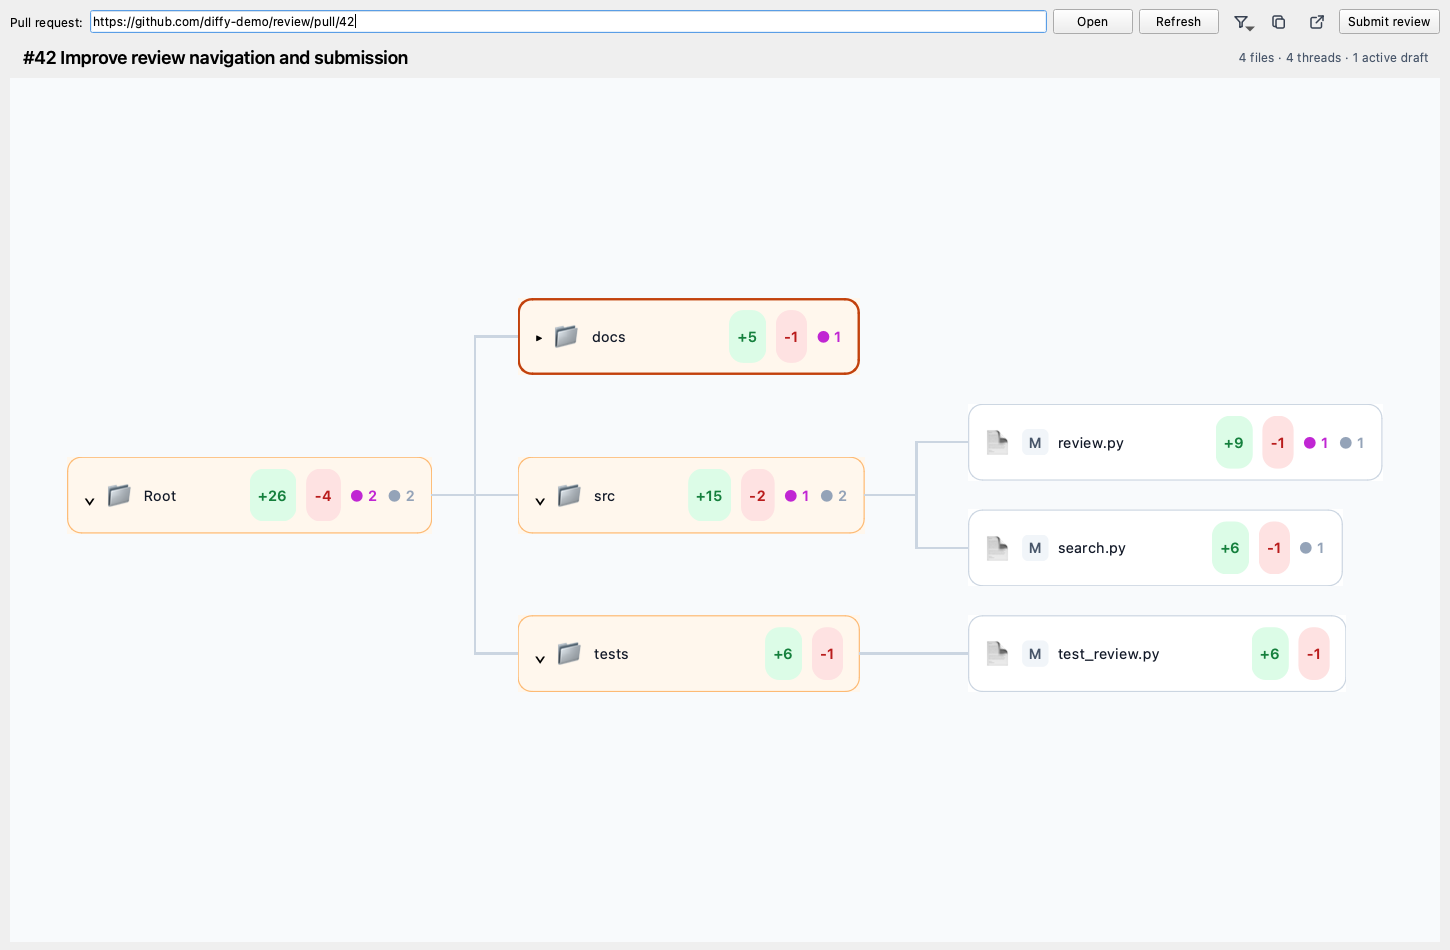
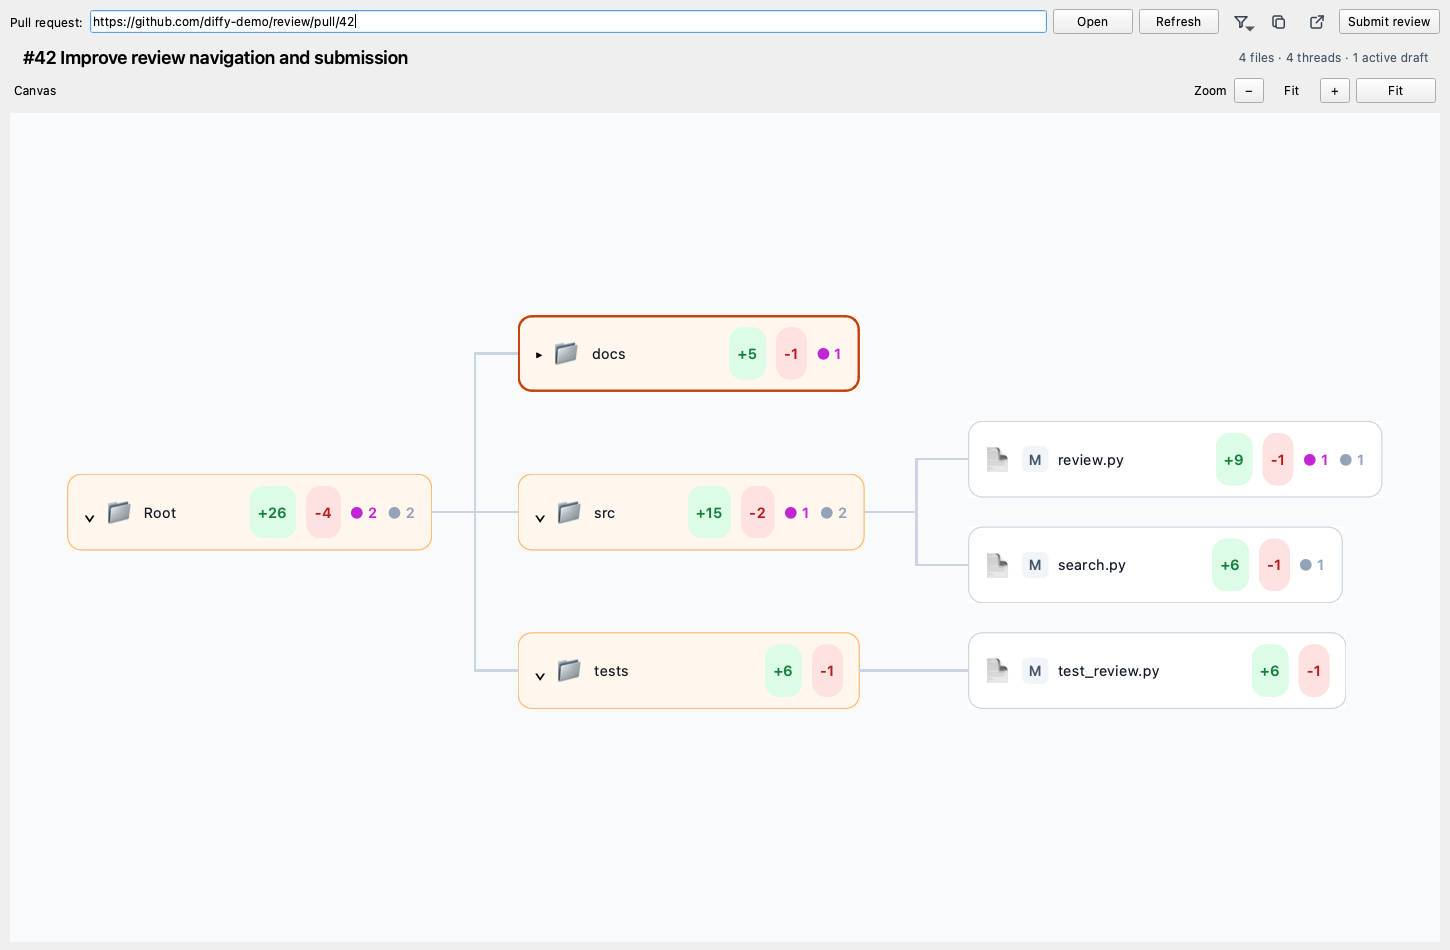
Add visible canvas zoom controls

diff --git a/diffy/ui/main_window.py b/diffy/ui/main_window.py
@@ -359,6 +359,7 @@ class QuickSearchDialog(QDialog):
 
 class SpatialCanvas(QGraphicsView):
     file_selected = Signal(str)
+    zoom_changed = Signal(float, bool)
 
     def __init__(self):
         super().__init__()
@@ -637,6 +638,25 @@ class SpatialCanvas(QGraphicsView):
         if rect.width() <= 0 or rect.height() <= 0:
             return
         self.fitInView(rect.adjusted(-16, -16, 16, 16), Qt.AspectRatioMode.KeepAspectRatio)
+        self.zoom = 1.0
+        self.zoom_changed.emit(self.zoom, True)
+
+    def set_zoom(self, zoom: float) -> None:
+        self.auto_fit = False
+        self.zoom = max(0.5, min(2.5, zoom))
+        self.resetTransform()
+        self.scale(self.zoom, self.zoom)
+        self.zoom_changed.emit(self.zoom, False)
+
+    def zoom_in(self) -> None:
+        self.set_zoom(self.zoom * 1.15)
+
+    def zoom_out(self) -> None:
+        self.set_zoom(self.zoom * 0.87)
+
+    def fit_canvas(self) -> None:
+        self.auto_fit = True
+        self._fit_tree()
 
     def focus_first_node(self) -> None:
         if self.node_widgets:
@@ -740,11 +760,8 @@ class SpatialCanvas(QGraphicsView):
 
     def wheelEvent(self, event: QWheelEvent) -> None:
         if event.modifiers() & (Qt.KeyboardModifier.ControlModifier | Qt.KeyboardModifier.MetaModifier):
-            self.auto_fit = False
             factor = 1.15 if event.angleDelta().y() > 0 else 0.87
-            self.zoom = max(0.5, min(2.5, self.zoom * factor))
-            self.resetTransform()
-            self.scale(self.zoom, self.zoom)
+            self.set_zoom(self.zoom * factor)
             event.accept()
             return
         super().wheelEvent(event)
@@ -838,8 +855,33 @@ class MainWindow(QMainWindow):
         canvas_page = QWidget()
         canvas_layout = QVBoxLayout(canvas_page)
         canvas_layout.setContentsMargins(0, 0, 0, 0)
+        canvas_toolbar = QHBoxLayout()
+        canvas_toolbar.setContentsMargins(4, 0, 4, 4)
+        canvas_toolbar.addWidget(QLabel("Canvas"))
+        canvas_toolbar.addStretch()
+        canvas_toolbar.addWidget(QLabel("Zoom"))
+        self.canvas_zoom_out_button = QPushButton("−")
+        self.canvas_zoom_out_button.setFixedWidth(30)
+        self.canvas_zoom_out_button.setToolTip("Zoom out")
+        self.canvas_zoom_in_button = QPushButton("+")
+        self.canvas_zoom_in_button.setFixedWidth(30)
+        self.canvas_zoom_in_button.setToolTip("Zoom in")
+        self.canvas_fit_button = QPushButton("Fit")
+        self.canvas_fit_button.setToolTip("Fit the canvas to the window")
+        self.canvas_zoom_label = QLabel("100%")
+        self.canvas_zoom_label.setMinimumWidth(44)
+        self.canvas_zoom_label.setAlignment(Qt.AlignmentFlag.AlignCenter)
+        canvas_toolbar.addWidget(self.canvas_zoom_out_button)
+        canvas_toolbar.addWidget(self.canvas_zoom_label)
+        canvas_toolbar.addWidget(self.canvas_zoom_in_button)
+        canvas_toolbar.addWidget(self.canvas_fit_button)
+        canvas_layout.addLayout(canvas_toolbar)
         self.canvas = SpatialCanvas()
         self.canvas.file_selected.connect(self.open_diff)
+        self.canvas.zoom_changed.connect(self._update_canvas_zoom_label)
+        self.canvas_zoom_out_button.clicked.connect(self.canvas.zoom_out)
+        self.canvas_zoom_in_button.clicked.connect(self.canvas.zoom_in)
+        self.canvas_fit_button.clicked.connect(self.canvas.fit_canvas)
         canvas_layout.addWidget(self.canvas)
         self.view_stack.addWidget(canvas_page)
 
@@ -872,6 +914,10 @@ class MainWindow(QMainWindow):
         self.quick_search_shortcut.activated.connect(self.show_quick_search)
         self.setCentralWidget(root)
         self._set_busy(False)
+
+    @Slot(float, bool)
+    def _update_canvas_zoom_label(self, zoom: float, fitting: bool) -> None:
+        self.canvas_zoom_label.setText("Fit" if fitting else f"{round(zoom * 100)}%")
 
     def _create_tool_button(self, asset_name: str, tooltip: str) -> QToolButton:
         button = QToolButton()

diff --git a/tests/test_gui.py b/tests/test_gui.py
@@ -68,6 +68,12 @@ class GuiIntegrationTest(unittest.TestCase):
             window.show_canvas()
             self.application.processEvents()
             self.assertEqual(window.canvas.focused_node.node_name, "Root")
+            window.canvas.zoom_out()
+            self.assertFalse(window.canvas.auto_fit)
+            self.assertLess(window.canvas.zoom, 1.0)
+            window.canvas.fit_canvas()
+            self.assertTrue(window.canvas.auto_fit)
+            self.assertEqual(window.canvas.zoom, 1.0)
             QTest.keyClick(window.canvas.focused_node, Qt.Key.Key_Right)
             self.application.processEvents()
             self.assertEqual(window.canvas.focused_node.node_name, "cmd")

diff --git a/scripts/generate_product_tour.py b/scripts/generate_product_tour.py
@@ -232,7 +232,7 @@ def generate() -> list[tuple[str, str, str]]:
         process_events(application)
 
         capture_window(window, "01-canvas-overview")
-        entries.append(("01-canvas-overview.png", "Canvas overview", "Navigate the pull request through a compact file tree with change and comment badges."))
+        entries.append(("01-canvas-overview.png", "Canvas overview", "Navigate the pull request through a compact file tree with change and comment badges; use the visible −, +, and Fit controls to manage large trees."))
 
         window.canvas.focus_first_node()
         QTest.keyClick(window.canvas.focused_node, Qt.Key.Key_Right)

diff --git a/docs/product-tour.md b/docs/product-tour.md
@@ -4,7 +4,7 @@ Generated by `make tour`. Do not edit the screenshots manually.
 
 ## Canvas overview
 
-Navigate the pull request through a compact file tree with change and comment badges.
+Navigate the pull request through a compact file tree with change and comment badges; use the visible −, +, and Fit controls to manage large trees.
 
 ![Canvas overview](../assets/product-tour/01-canvas-overview.png)
 
